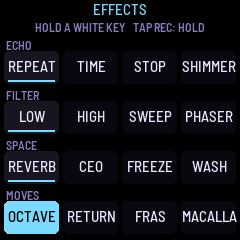
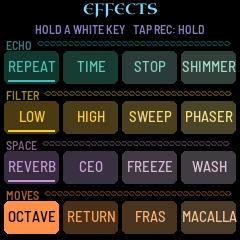
The effects grid in PERFORM's look (for 1.3.1; not released)
Stephen, 2026-11-11, of the manual's picture of the grid: "this is out of date. So I'd like more of how it is shown
now." The picture was right: REC's grid was still 1.2's. Its name in the uncial hand, a colour a group (Echo the sea
and Space heather, as PERFORM's; Filter gorse, Moves orange), a shade a cell, a plaited rule after each group's name,
a held cell its colour full with black lettering. Drawing only: no key, effect or sound changes. Suite: all passed
(host, on the Mini). Not on an FM-1.

Claude-Session: https://claude.ai/code/session_01T5obJLREVBk7NzgbjHj9zp

diff --git a/firmware/src/app/ui.c b/firmware/src/app/ui.c
@@ -2533,25 +2533,36 @@ static void draw_lanes(void)
 static const char *const GRID_CELL[EN_NFX] = {"Repeat", "Time", "Stop", "Shimmer", "Low", "High", "Sweep", "Phaser",
                                               "Reverb", "Ceo", "Freeze", "Wash", "Octave", "Return", "Fras",
                                               "Macalla"};
+/* (the user, 2026-11-10: "more Irish") the flag's orange, the sea, heather, gorse, shamrock; shaded towards bainin */
+#define K_SEA RGB(72, 188, 176)
+#define K_HEATHER RGB(198, 150, 210)
+#define K_GORSE RGB(244, 200, 56)
+#define K_BAININ RGB(246, 238, 214)
+/* (1.3.1; the user, 2026-11-11: "more of how it is shown now") the grid in PERFORM's look: its name in the uncial hand,
+ * a colour a group (Echo the sea and Space heather, as PERFORM's; Filter gorse, Moves the flag's orange), a shade a
+ * cell, a plaited rule after each group's name; a held cell its colour full, the lettering black, as the flash */
 static void grid_band(int32_t oy)                 /* the whole screen, in two bands of 240 x 120 */
 {
     static const char *const GROUP[4] = {"ECHO", "FILTER", "SPACE", "MOVES"};   /* (BERLIN's) */
+    static const uint16_t GCOL[4] = {K_SEA, K_GORSE, K_HEATHER, K_EIRE_O};
     int r, c;
     cv_begin(240, 120, K_BG);
-    text_c(120, 2 - oy, &FONT_S, "EFFECTS", K_ACC);
-    text_c(120, 20 - oy, &FONT_XS, "HOLD A WHITE KEY    TAP REC: HOLD", K_DIM);
+    text_c(120, 0 - oy, &FONT_US, "EFFECTS", K_ACC);
+    text_c(120, 22 - oy, &FONT_XS, "HOLD A WHITE KEY    TAP REC: HOLD", K_DIM);
     for (r = 0; r < 4; r++) {
         int32_t yr = 38 + r * 50;
-        cv_text(6, yr - oy, &FONT_XS, GROUP[r], K_DIM);
+        int32_t gx = cv_text(6, yr - oy, &FONT_XS, GROUP[r], mix(K_BG, GCOL[r], 11));
+        plait(gx + 6, 234, yr + 5 - oy, mix(K_BG, GCOL[r], 6));
         for (c = 0; c < 4; c++) {
             int e = r * 4 + c, on = (int)(ui.fx >> e & 1u);
             int32_t x = 4 + c * 59, y = yr + 13 - oy;
+            const uint16_t col = mix(GCOL[r], K_BAININ, c * 3);
             char t[12];
-            cv_round(x, y, 55, 33, 5, on ? K_ACC : c == 0 ? K_PANEL : mix(K_BG, K_PANEL, 8));
+            cv_round(x, y, 55, 33, 5, on ? col : mix(K_BG, col, 5));
             if (c == 0 && !on)                   /* (the first of a group: its key is lit) */
-                cv_rect(x + 4, y + 29, 47, 2, K_ACC);
+                cv_rect(x + 4, y + 29, 47, 2, col);
             caps(t, GRID_CELL[e], sizeof t);
-            text_c(x + 28, y + 8, &FONT_S, t, on ? K_BG : K_TEXT);
+            text_c(x + 28, y + 8, &FONT_S, t, on ? K_BG : col);
         }
     }
     cv_blit(0, (uint32_t)oy);
@@ -2624,11 +2635,6 @@ static void draw_pmap(void)
  * go: their keys blink, REC is lit. */
 #define PF_H (HDR_H + MAIN_H)
 #define PF_MAX 8
-/* (the user, 2026-11-10: "more Irish") the flag's orange, the sea, heather, gorse, shamrock; shaded towards bainin */
-#define K_SEA RGB(72, 188, 176)
-#define K_HEATHER RGB(198, 150, 210)
-#define K_GORSE RGB(244, 200, 56)
-#define K_BAININ RGB(246, 238, 214)
 static const uint16_t PG_COL[PG_N] = {K_EIRE_O, K_SEA, K_HEATHER, K_GORSE, K_EIRE};
 static const char *const PLINE[PERF_N] = {
     "a slice, over and over", "fog rolling into the echo", "half the speed", "a burst of rain",

diff --git a/docs/MANUAL.md b/docs/MANUAL.md
@@ -543,7 +543,7 @@ up a slot. A key writes a slot's root, KNOB 2 its kind, KNOB 3 its type, KNOB 4 
 
 ## 9. The effects grid
 
-![The effects grid, REC held: four rows of four, Octave held](img/screen-grid.png)
+![The effects grid, REC held: four rows of four, a colour a group, Octave held](img/screen-grid.png)
 
 Hold REC: the grid fills the screen, four rows of four, one effect on each white key. An effect lasts while
 its key is held; several can be held together. Let go of REC and the keys still held keep theirs until
